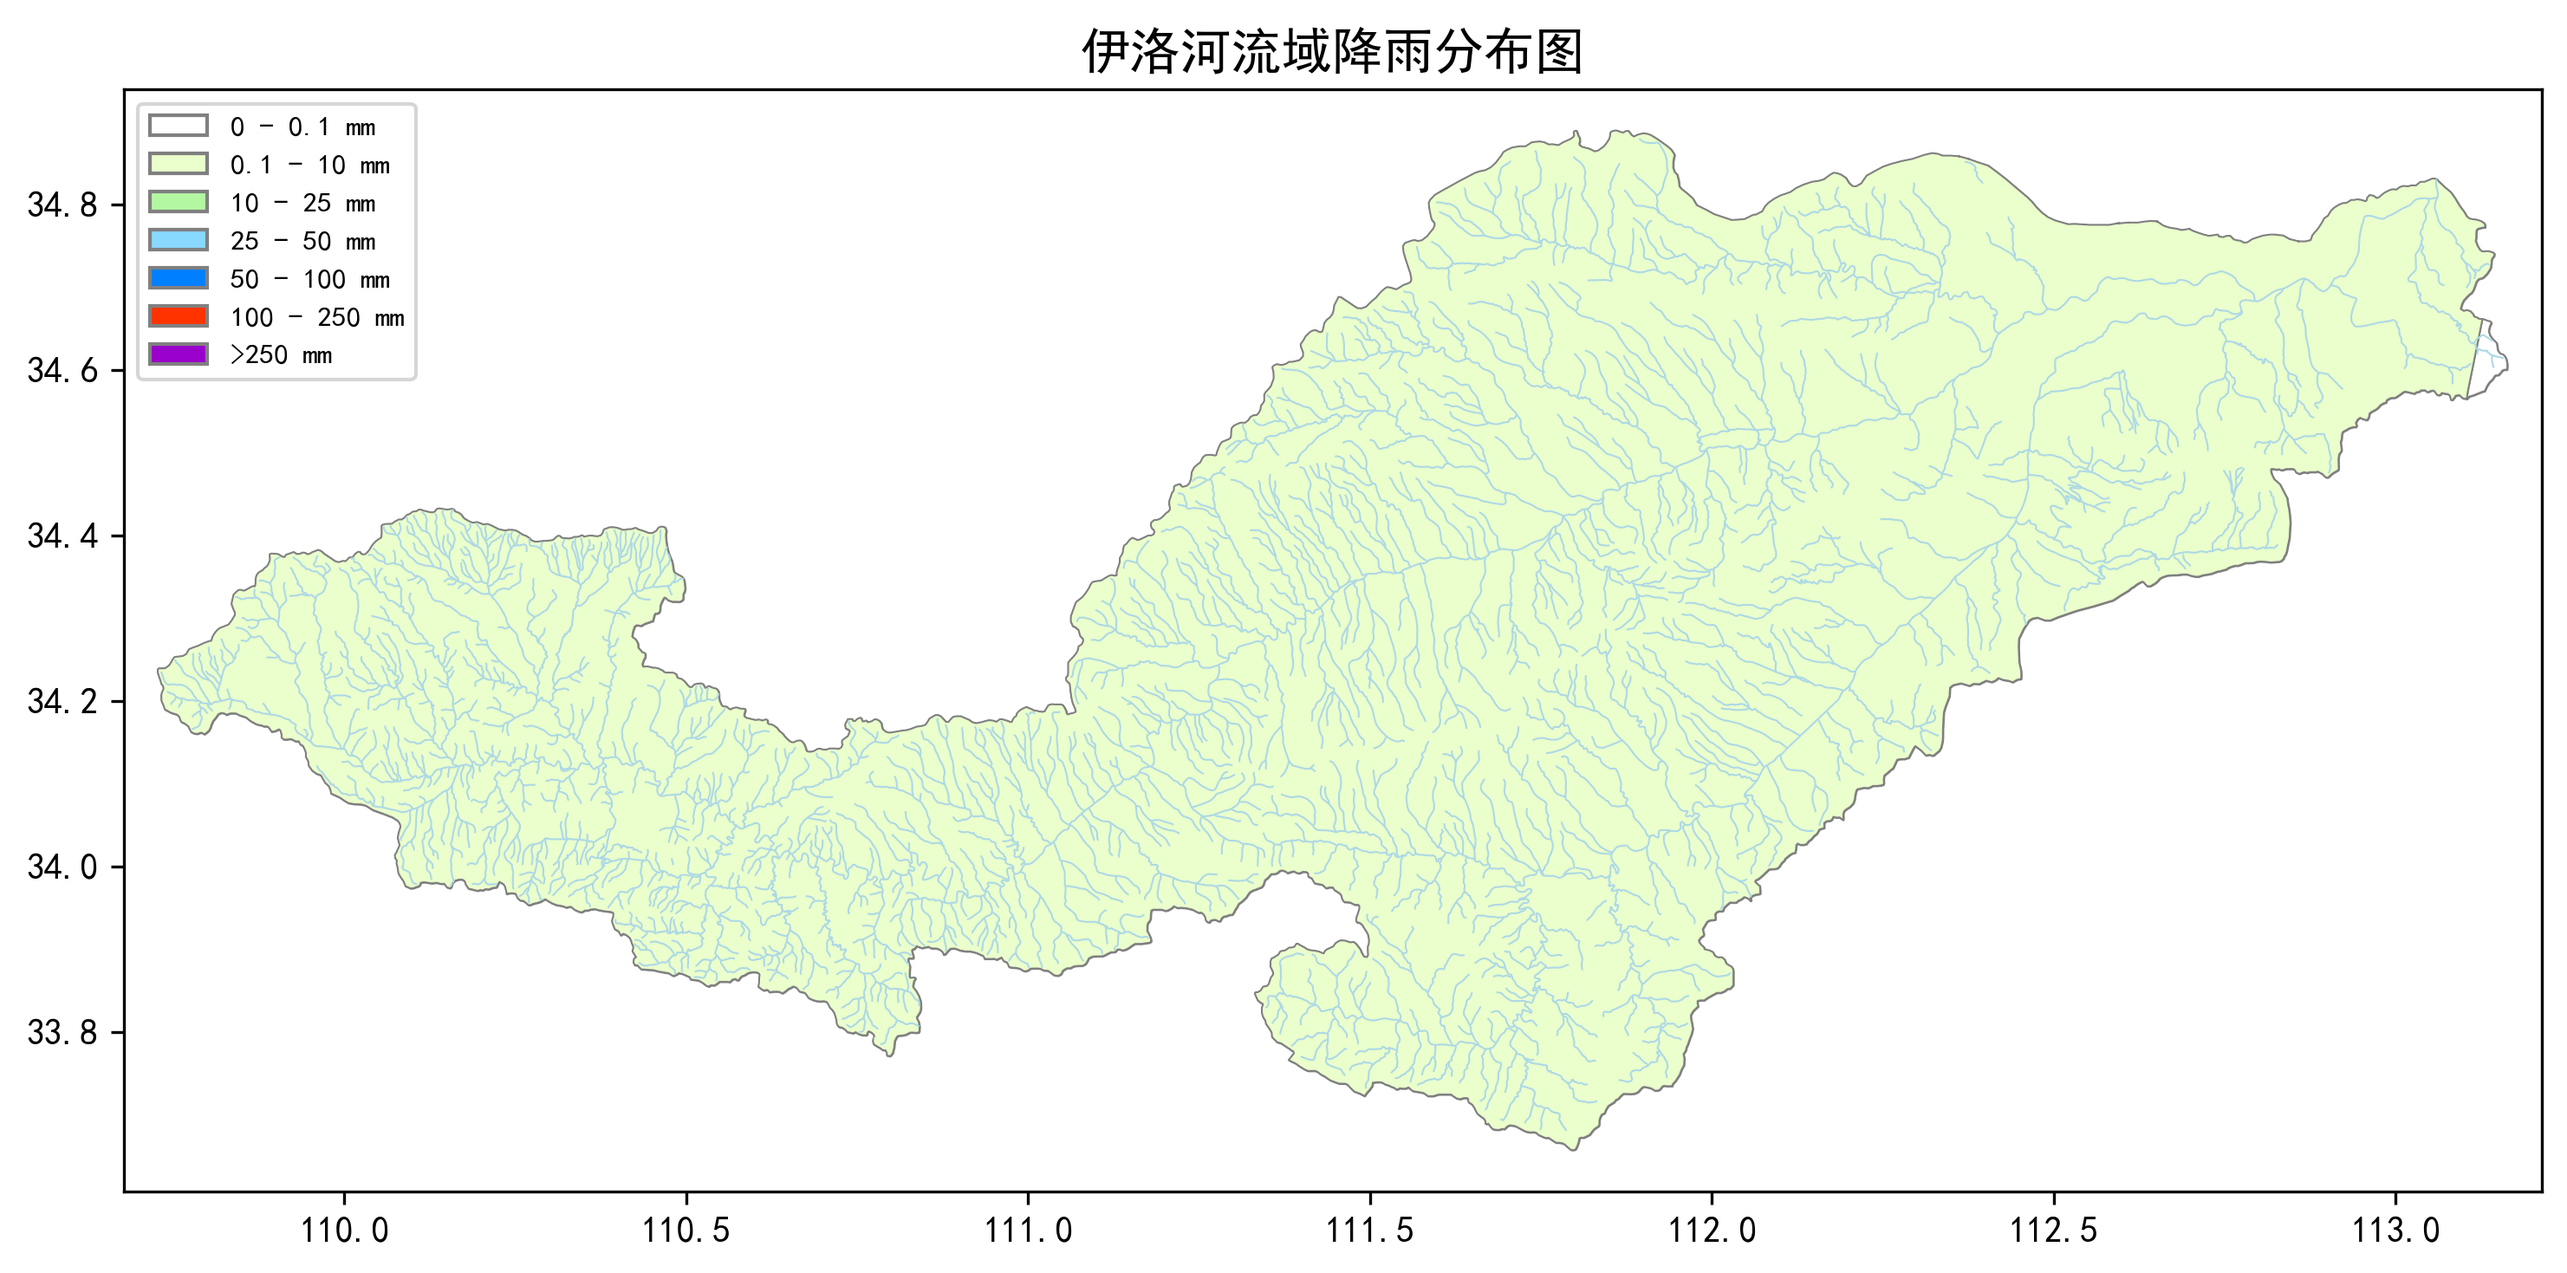
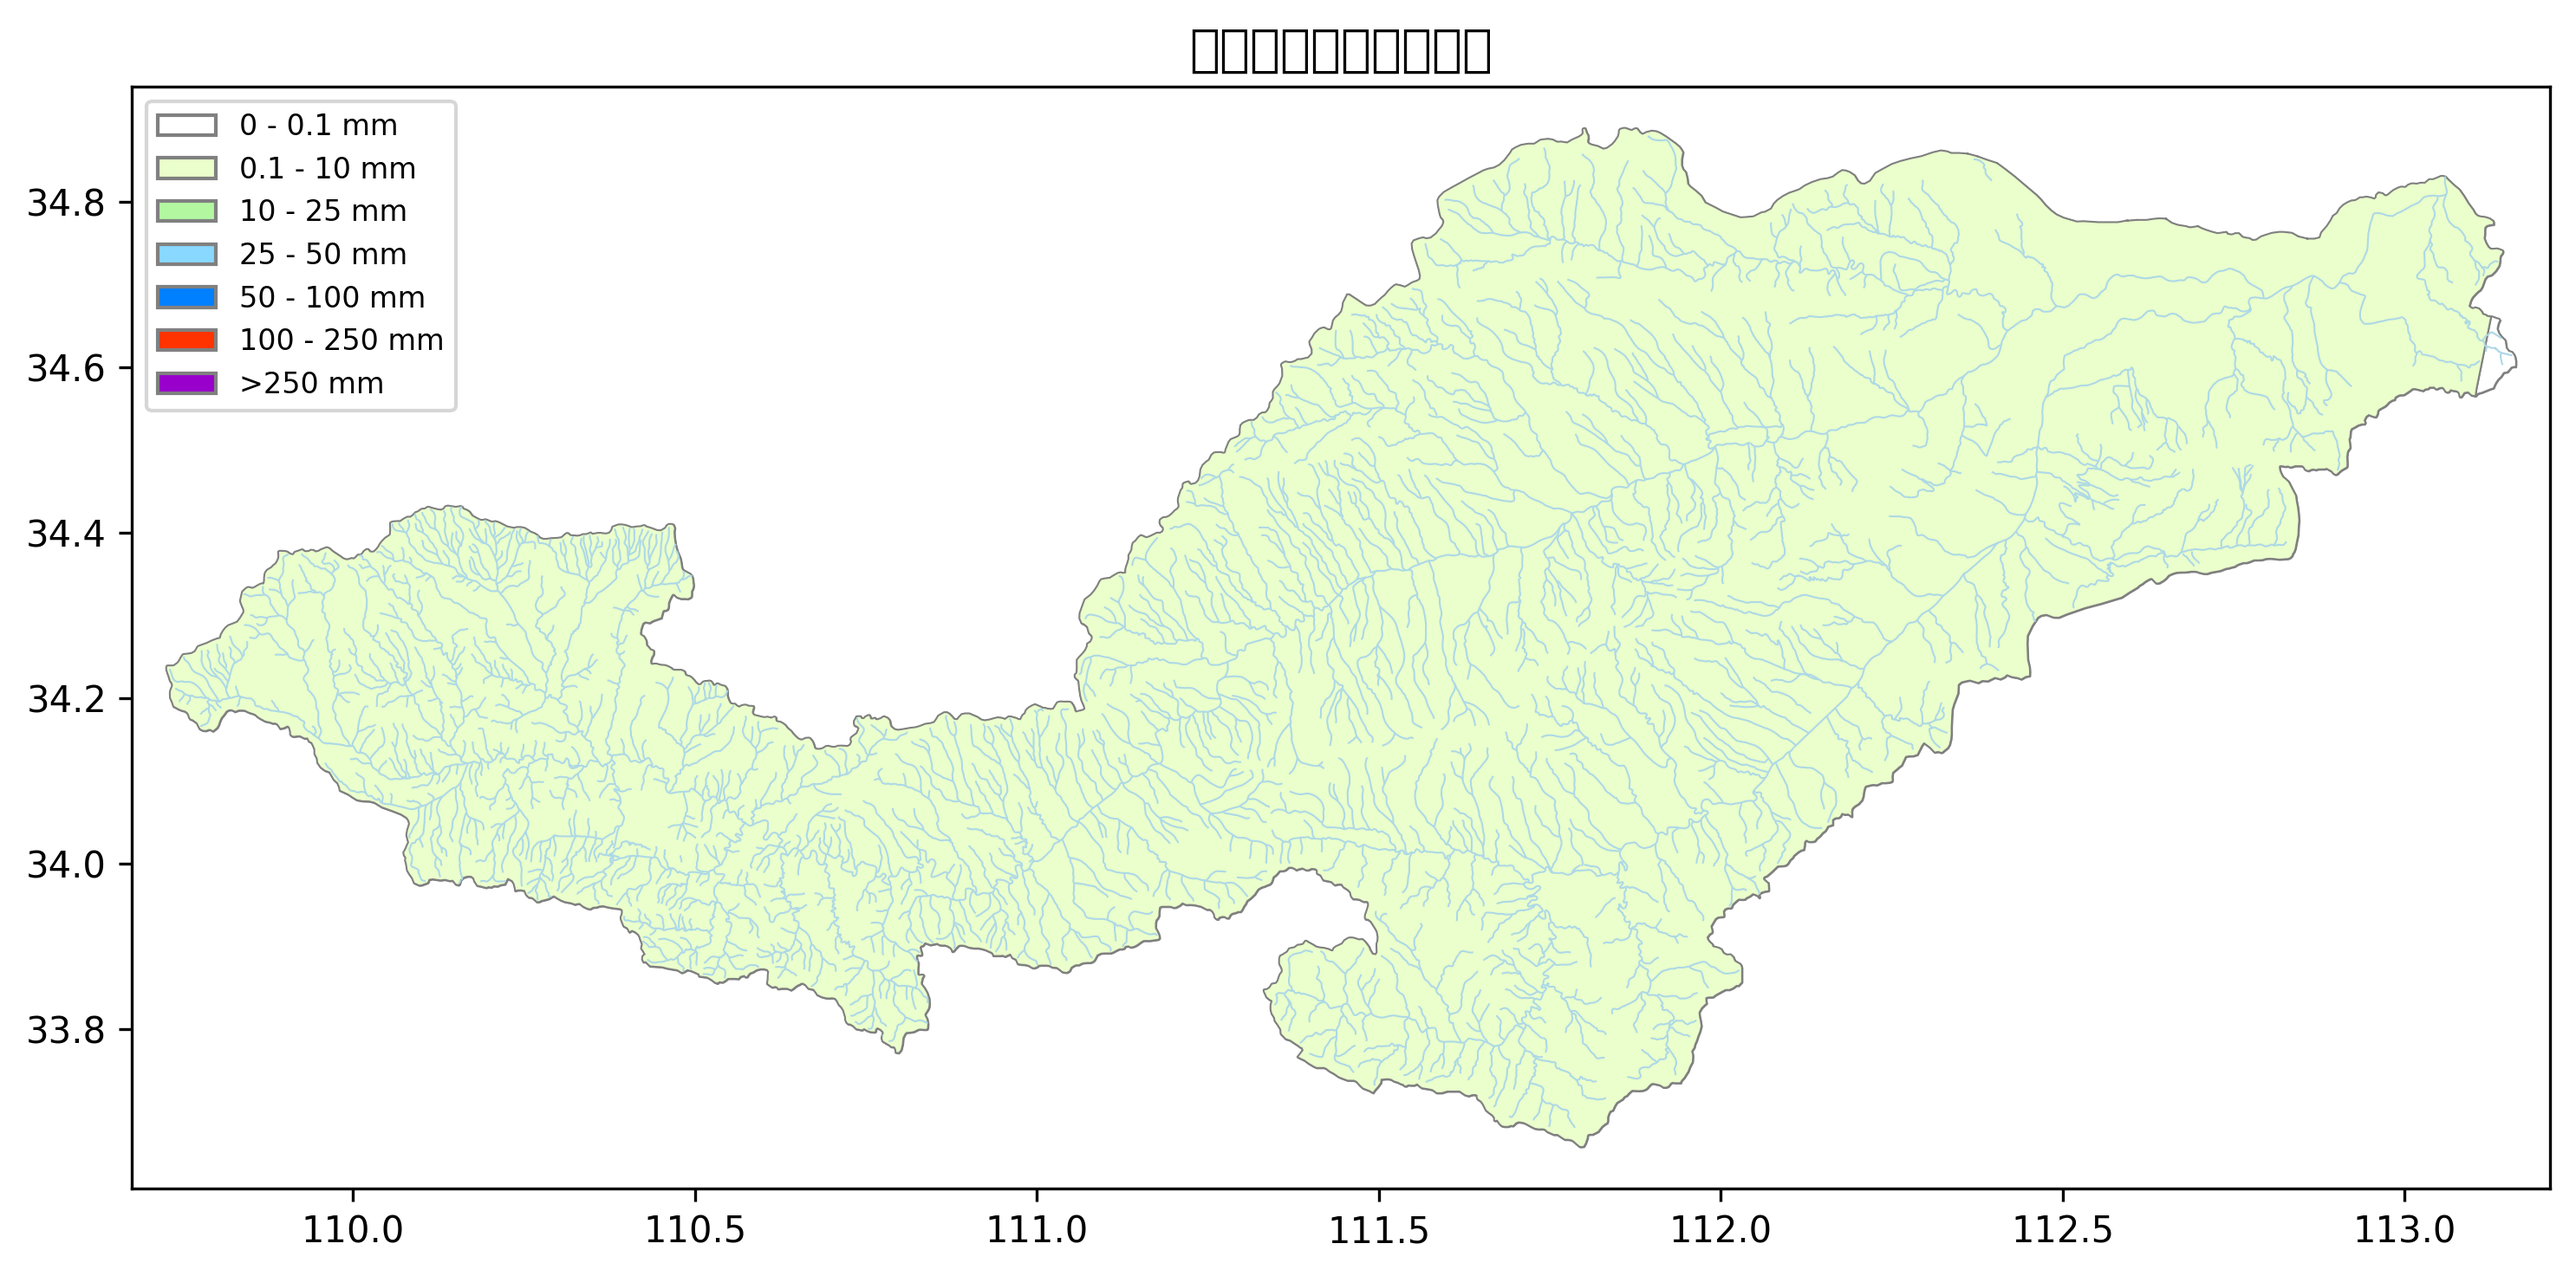
更新代码

diff --git a/mainapp/cron_task_ylh.py b/mainapp/cron_task_ylh.py
@@ -13,7 +13,7 @@ from django_apscheduler.jobstores import DjangoJobStore, register_job, register_
 from yaapp.api_ylh_data import YLHDataFactory
 from yaapp.ylh_interface import generate_rainfall_map,download_map_images,create_flood_control_plan,call_llm_yuan_user_plan,call_llm_yuan_user_word,generate_rainfall_maps
 from threading import Lock
-
+from yaapp import oauth_login_new,get_rainfall_data_day, get_max_rainfall_station
 resource_lock = Lock()
 print('django-apscheduler starting')
 # 或者清空所有任务（谨慎使用）
@@ -29,8 +29,12 @@ def buildJsonDataJob():
     with resource_lock:  # 👈 加锁
         try:
             close_old_connections()
+            # auth_token = oauth_login_new()
+            # status, data = get_rainfall_data_day(auth_token=auth_token)
+            # max_rainfall_station = get_max_rainfall_station(data['data'])
+            # logger.info(f"最大降雨站：, {max_rainfall_station}")
             YLHDataFactory(dataType=4).buildJsonData()
-            logger.info(f'任务运行成功！{time.strftime("%Y-%m-%d %H:%M:%S")}')
+            logger.info(f'JSON数据构建任务运行成功！{time.strftime("%Y-%m-%d %H:%M:%S")}')
         except Exception as e:
             logger.error(f'json数据构建任务失败：{str(e)}')
         finally:
@@ -78,11 +82,10 @@ def flood_control_plan_job():
         plan_id = create_flood_control_plan()
         if plan_id:
             logger.info(f"成功创建防汛预案，ID: {plan_id}")
-            # 2. 调用预案处理接口
+            # 2. 调用预案生成接口
             plan_data = call_llm_yuan_user_plan(ptid=plan_id)
             if plan_data and plan_data.get("code") == 200:
                 logger.info("预案数据处理成功")
-
                 # 3. 生成预案文档
                 word_data = call_llm_yuan_user_word(id=plan_id)
                 if word_data and word_data.get("code") == 200:

diff --git a/mainapp/yaapp/api_ylh_data.py b/mainapp/yaapp/api_ylh_data.py
@@ -16,8 +16,8 @@ import requests
 import json
 import codecs
 import logging
-from mainapp.yaapp.base_data import BaseDataFactory
-from mainapp.yaapp import (get_ddfad_data, oauth_login, oauth_login_new,generate_rainfall_report,get_rainfall_data_day,format_hydrometric_data,format_reservoir_data,
+from yaapp.base_data import BaseDataFactory
+from yaapp import (get_ddfad_data, oauth_login, oauth_login_new,generate_rainfall_report,get_rainfall_data_day,format_hydrometric_data,format_reservoir_data,
                    query_zx_reservoir_data,get_weather_warning,get_access_token, get_formatted_jlyb_data, get_max_rainfall_station, get_rain_analysis,plot_yuliangmian)
 # from mainapp.yaapp.base_data import BaseDataFactory
 # from mainapp.yaapp import (get_ddfad_data, oauth_login, oauth_login_new,generate_rainfall_report,get_rainfall_data_day,format_hydrometric_data,format_reservoir_data,
@@ -28,8 +28,6 @@ class YLHDataFactory(BaseDataFactory):
 
     def __init__(self, dataType=0):
         super().__init__(dataType)
-
-
     def getYuQingData(self):
         """
             获取雨情数据

diff --git a/mainapp/test/test4.py b/mainapp/test/test4.py
@@ -198,7 +198,7 @@ def plot_unified_map(
                 Patch(facecolor=color, edgecolor='gray', label=label)
                 for color, label in zip(colors, labels)
             ]
-            ax.legend(handles=legend_elements, loc='upper left', fontsize=8)
+            ax.legend(handles=legend_elements, loc='lower right', fontsize=8)
 
         else:
             rain_in_basin.plot(ax=ax, color="lightgreen", edgecolor="green", alpha=0.5)
@@ -211,7 +211,13 @@ def plot_unified_map(
         padding = 0.05
         ax.set_xlim(bounds[0] - padding, bounds[2] + padding)
         ax.set_ylim(bounds[1] - padding, bounds[3] + padding)
-
+        # 彻底隐藏坐标轴和边框
+        ax.axis('off')
+        # 去掉经纬度坐标轴的显示
+        # ax.set_xticks([])
+        # ax.set_yticks([])
+        # ax.set_xticklabels([])
+        # ax.set_yticklabels([])
         # 图题
         ax.set_title("伊洛河流域降雨分布图", fontsize=14)
 

diff --git a/mainapp/yaapp/ylh_interface.py b/mainapp/yaapp/ylh_interface.py
@@ -572,7 +572,7 @@ def plot_unified_map(
                 Patch(facecolor=color, edgecolor='gray', label=label)
                 for color, label in zip(colors, labels)
             ]
-            ax.legend(handles=legend_elements, loc='upper left', fontsize=8)
+            ax.legend(handles=legend_elements, loc='lower right', fontsize=8)
 
         else:
             rain_in_basin.plot(ax=ax, color="lightgreen", edgecolor="green", alpha=0.5)
@@ -586,7 +586,13 @@ def plot_unified_map(
         padding = 0.05
         ax.set_xlim(bounds[0] - padding, bounds[2] + padding)
         ax.set_ylim(bounds[1] - padding, bounds[3] + padding)
-
+        # 彻底隐藏坐标轴和边框
+        ax.axis('off')
+        # 去掉经纬度坐标轴的显示
+        # ax.set_xticks([])
+        # ax.set_yticks([])
+        # ax.set_xticklabels([])
+        # ax.set_yticklabels([])
         # 图题
         ax.set_title("伊洛河流域降雨分布图", fontsize=14)
 

diff --git a/mainapp/yaapp/__init__.py b/mainapp/yaapp/__init__.py
@@ -1539,8 +1539,8 @@ def get_hydrometric_station(auth_token=None, station_code=None, ):
 
 AUTH_TOKEN_PATH = "data/yuan_data/4/auth_token/auth_token.json"
 def oauth_login_new(
-    access_key: str = "fxylh2",   #  "fxylh",#
-    secret_key: str = "899d657383d458a546bd80f1a0753263",#"656ed363fa5513bb9848b430712290b2",#
+    access_key: str =  "fxylh2",   #"fxylh",#
+    secret_key: str = "656ed363fa5513bb9848b430712290b2",#"899d657383d458a546bd80f1a0753263",#
     user_type: int = 3
 ):
     url = f"{BASE_API_URL}/oauth/login"
